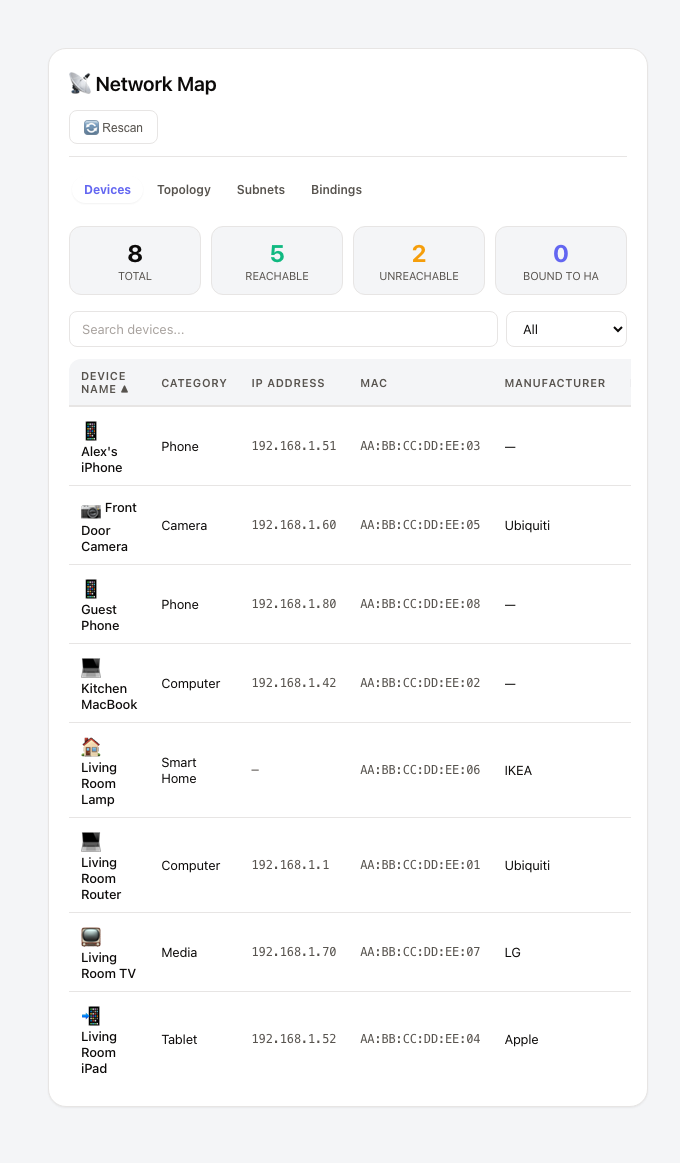
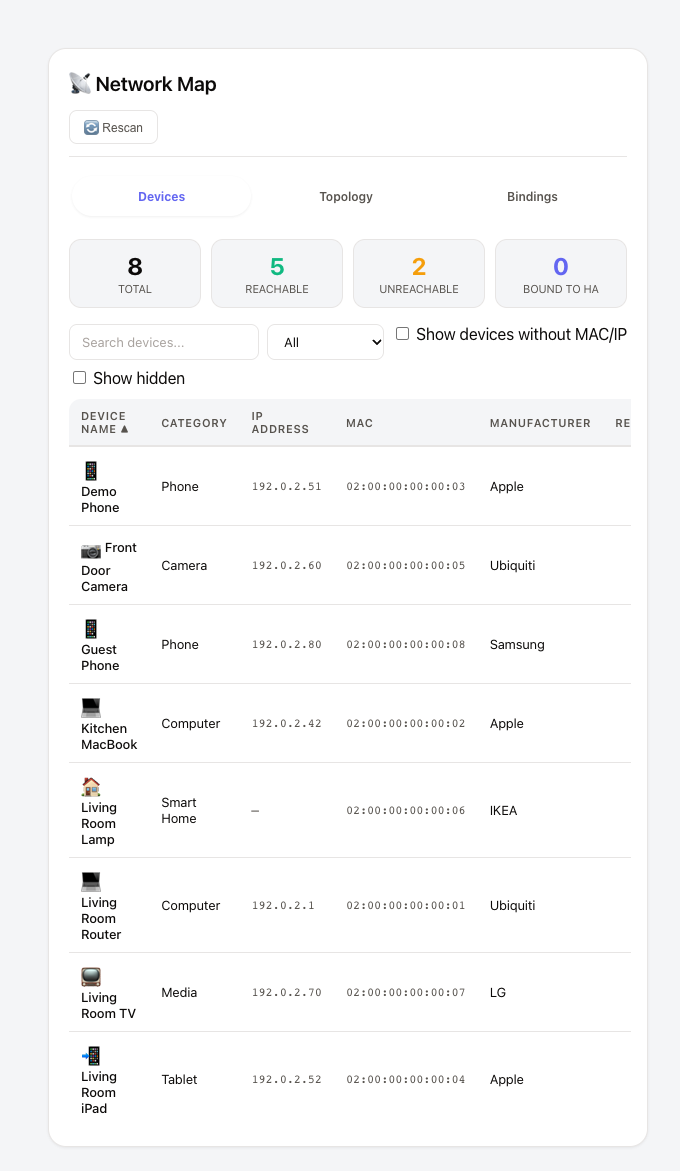
Refresh Network Map screenshots with test network fixture

diff --git a/docs/screenshots/_harness.html b/docs/screenshots/_harness.html
@@ -27,30 +27,30 @@
   const now = Date.now(); const h = 3600000;
 
   // Demo devices — shape matches scanner.Device.to_dict() as consumed by
-  // ha_network_map/list_devices. IPs/MACs are obviously fake demo values.
+  // ha_network_map/list_devices. Use TEST-NET addresses and locally administered MACs so published screenshots cannot resemble a real household network.
   const demoDevices = [
-    { key: 'aa:bb:cc:dd:ee:01', name: 'Living Room Router', ip: '192.168.1.1', mac: 'AA:BB:CC:DD:EE:01',
+    { key: '02:00:00:00:00:01', name: 'Living Room Router', ip: '192.0.2.1', mac: '02:00:00:00:00:01',
       manufacturer: 'Ubiquiti', model: 'UniFi Dream Machine', sources: ['device_registry'],
       entity_ids: [], reachable: true, open_ports: [443, 22] },
-    { key: '192.168.1.42', name: 'Kitchen MacBook', ip: '192.168.1.42', mac: 'AA:BB:CC:DD:EE:02',
+    { key: '192.0.2.42', name: 'Kitchen MacBook', ip: '192.0.2.42', mac: '02:00:00:00:00:02',
       manufacturer: 'Apple', model: 'MacBook Pro', sources: ['device_tracker'],
       entity_ids: ['device_tracker.kitchen_macbook'], reachable: true, open_ports: [] },
-    { key: '192.168.1.51', name: "Alex's iPhone", ip: '192.168.1.51', mac: 'AA:BB:CC:DD:EE:03',
+    { key: '192.0.2.51', name: "Demo Phone", ip: '192.0.2.51', mac: '02:00:00:00:00:03',
       manufacturer: 'Apple', model: 'iPhone 15', sources: ['device_tracker'],
-      entity_ids: ['device_tracker.alexs_iphone'], reachable: true, open_ports: [] },
-    { key: 'aa:bb:cc:dd:ee:04', name: 'Living Room iPad', ip: '192.168.1.52', mac: 'AA:BB:CC:DD:EE:04',
+      entity_ids: ['device_tracker.demo_phone'], reachable: true, open_ports: [] },
+    { key: '02:00:00:00:00:04', name: 'Living Room iPad', ip: '192.0.2.52', mac: '02:00:00:00:00:04',
       manufacturer: 'Apple', model: 'iPad Air', sources: ['device_registry'],
       entity_ids: [], reachable: false, open_ports: [] },
-    { key: 'aa:bb:cc:dd:ee:05', name: 'Front Door Camera', ip: '192.168.1.60', mac: 'AA:BB:CC:DD:EE:05',
+    { key: '02:00:00:00:00:05', name: 'Front Door Camera', ip: '192.0.2.60', mac: '02:00:00:00:00:05',
       manufacturer: 'Ubiquiti', model: 'G4 Doorbell', sources: ['device_registry'],
       entity_ids: [], reachable: true, open_ports: [554, 443] },
-    { key: 'aa:bb:cc:dd:ee:06', name: 'Living Room Lamp', ip: null, mac: 'AA:BB:CC:DD:EE:06',
+    { key: '02:00:00:00:00:06', name: 'Living Room Lamp', ip: null, mac: '02:00:00:00:00:06',
       manufacturer: 'IKEA', model: 'TRADFRI', sources: ['device_registry'],
       entity_ids: [], reachable: null, open_ports: [] },
-    { key: 'aa:bb:cc:dd:ee:07', name: 'Living Room TV', ip: '192.168.1.70', mac: 'AA:BB:CC:DD:EE:07',
+    { key: '02:00:00:00:00:07', name: 'Living Room TV', ip: '192.0.2.70', mac: '02:00:00:00:00:07',
       manufacturer: 'LG', model: 'OLED55', sources: ['device_registry'],
       entity_ids: [], reachable: true, open_ports: [8080] },
-    { key: '192.168.1.80', name: 'Guest Phone', ip: '192.168.1.80', mac: 'AA:BB:CC:DD:EE:08',
+    { key: '192.0.2.80', name: 'Guest Phone', ip: '192.0.2.80', mac: '02:00:00:00:00:08',
       manufacturer: 'Samsung', model: 'Galaxy S24', sources: ['device_tracker'],
       entity_ids: ['device_tracker.guest_phone'], reachable: false, open_ports: [] },
   ];
@@ -60,17 +60,17 @@
   const trackerStates = {
     'device_tracker.kitchen_macbook': {
       entity_id: 'device_tracker.kitchen_macbook', state: 'home',
-      attributes: { friendly_name: 'Kitchen MacBook', ip_address: '192.168.1.42', mac_address: 'AA:BB:CC:DD:EE:02', source_type: 'router' },
+      attributes: { friendly_name: 'Kitchen MacBook', ip_address: '192.0.2.42', mac_address: '02:00:00:00:00:02', source_type: 'router' },
       last_changed: new Date(now - 2 * h).toISOString(), last_updated: new Date(now - 2 * h).toISOString(),
     },
-    'device_tracker.alexs_iphone': {
-      entity_id: 'device_tracker.alexs_iphone', state: 'home',
-      attributes: { friendly_name: "Alex's iPhone", ip_address: '192.168.1.51', mac_address: 'AA:BB:CC:DD:EE:03', source_type: 'router' },
+    'device_tracker.demo_phone': {
+      entity_id: 'device_tracker.demo_phone', state: 'home',
+      attributes: { friendly_name: "Demo Phone", ip_address: '192.0.2.51', mac_address: '02:00:00:00:00:03', source_type: 'router' },
       last_changed: new Date(now - 0.2 * h).toISOString(), last_updated: new Date(now - 0.2 * h).toISOString(),
     },
     'device_tracker.guest_phone': {
       entity_id: 'device_tracker.guest_phone', state: 'not_home',
-      attributes: { friendly_name: 'Guest Phone', ip_address: '192.168.1.80', mac_address: 'AA:BB:CC:DD:EE:08', source_type: 'router' },
+      attributes: { friendly_name: 'Guest Phone', ip_address: '192.0.2.80', mac_address: '02:00:00:00:00:08', source_type: 'router' },
       last_changed: new Date(now - 20 * h).toISOString(), last_updated: new Date(now - 20 * h).toISOString(),
     },
   };
@@ -119,7 +119,7 @@
   };
 
   const card = document.getElementById('card');
-  card.setConfig({ type: 'custom:ha-network-map', title: 'Network Map', router_ip: '192.168.1.1' });
+  card.setConfig({ type: 'custom:ha-network-map', title: 'Network Map', router_ip: '192.0.2.1' });
   card.hass = hass;
   setTimeout(() => {
     card.hass = { ...hass };

diff --git a/README.md b/README.md
@@ -59,9 +59,10 @@ HA device and entity pages. These choices are stored in this browser's
 |---|---|
 | ![Devices tab, light theme](docs/screenshots/card-map-light.png) | ![Devices tab, dark theme](docs/screenshots/card-map-dark.png) |
 
-*The Devices tab: per-device reachability, MAC/IP, manufacturer and any bound
-HA entity. The Topology tab renders the same devices as a hub-and-spoke graph.
-Dark mode follows your Home Assistant theme automatically.*
+*The Devices tab: reachability summary, MAC/IP filter, manufacturer and device
+rows. The fixture uses TEST-NET addresses and invented device names; it does
+not show a real household network. The Topology tab renders the same devices
+as a hub-and-spoke graph. Dark mode follows your Home Assistant theme.*
 
 ## Installation
 
